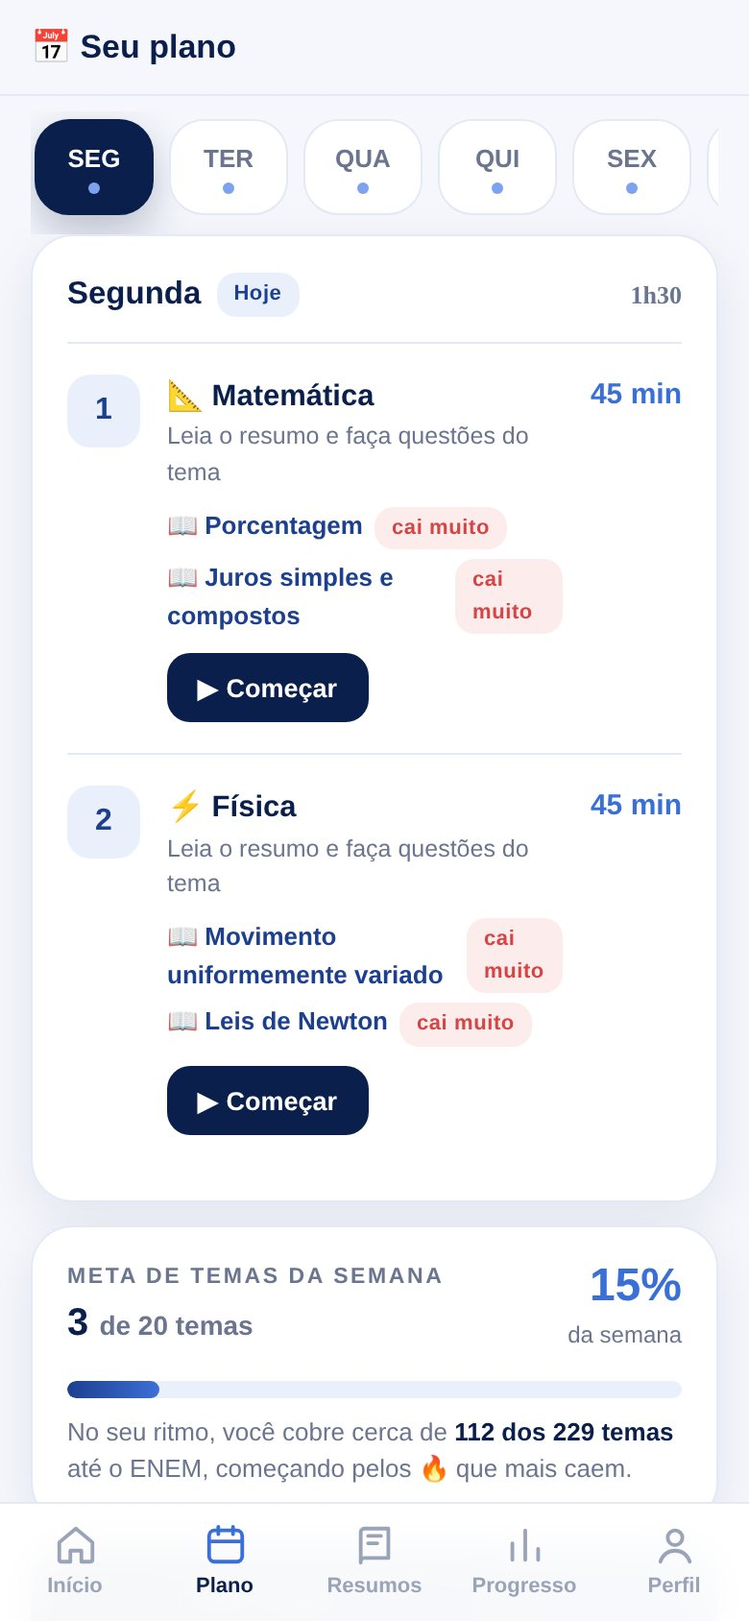
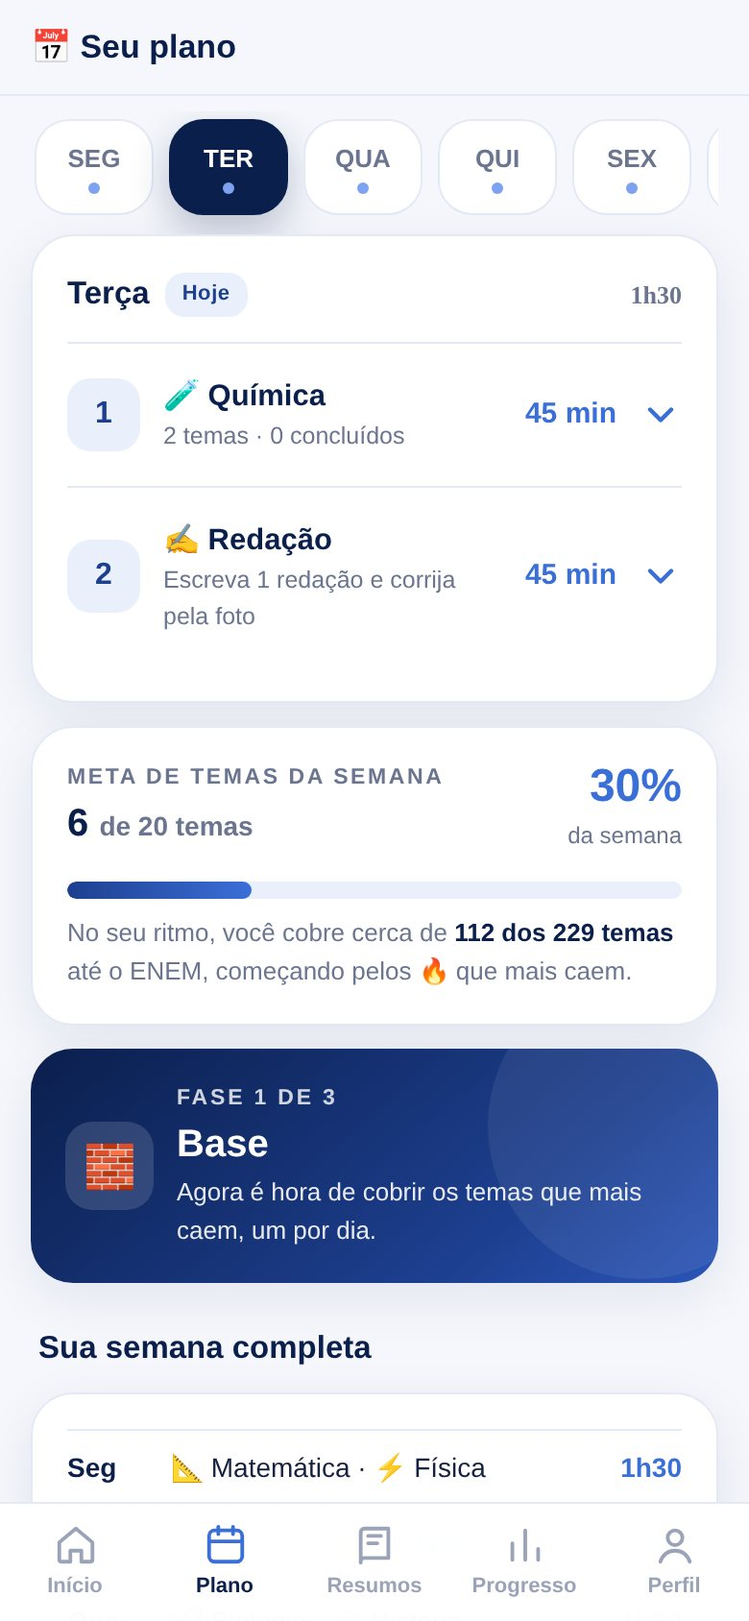
Plano: blocos que abrem com temas, concluir por tema, resumo embaixo e download do material; quiz 2: copy 'material', checklist e carrosseis mais suaves
Claude-Session: https://claude.ai/code/session_016oanMoqSLwB8wD9WTYZ31H

diff --git a/quiz2/index.html b/quiz2/index.html
@@ -27,8 +27,8 @@
 <style>
 .hero-sub{font-family:'Open Sans',sans-serif;font-size:17px;font-weight:700;color:var(--verde-claro);line-height:1.5;text-align:center;margin:18px 0 6px;}
 .prints{position:relative;width:62%;max-width:240px;margin:24px auto 0;aspect-ratio:390/844;border-radius:22px;overflow:hidden;background:#fff;border:6px solid #0b1f4d;box-shadow:0 14px 34px rgba(11,31,77,.35);}
-#prints-track{display:flex;height:100%;}
-#prints-track img{flex:1 1 0;min-width:0;height:100%;object-fit:cover;display:block;}
+#prints-track{display:flex;height:100%;will-change:transform;backface-visibility:hidden;transform:translate3d(0,0,0);}
+#prints-track img{flex:1 1 0;min-width:0;height:100%;object-fit:cover;display:block;backface-visibility:hidden;}
 .prints-dots{display:flex;gap:6px;justify-content:center;margin-top:14px;}
 .prints-dots i{width:7px;height:7px;border-radius:50%;background:#cfdaf0;}
 .prints-dots i.on{background:var(--verde);width:18px;border-radius:6px;}
@@ -43,7 +43,7 @@
 .pdf-h{font-family:'Open Sans',sans-serif;font-size:21px;font-weight:900;color:var(--verde-escuro);line-height:1.3;margin-bottom:8px;}
 .pdf-p{font-size:14.5px;color:#46506a;line-height:1.6;margin-bottom:16px;}
 .pdf-vitrine{position:relative;width:78%;max-width:330px;margin:0 auto;border-radius:10px;overflow:hidden;background:#fff;border:1px solid #dbe3f2;box-shadow:0 16px 36px rgba(11,31,77,.28);transform:rotate(-1.2deg);}
-.pdf-vitrine img{display:block;width:100%;height:auto;transition:opacity .26s ease;}
+.pdf-vitrine img{display:block;width:100%;height:auto;transition:opacity .35s ease;will-change:opacity;}
 .pdf-leg{position:absolute;left:0;right:0;bottom:0;background:linear-gradient(0deg,rgba(11,31,77,.92),rgba(11,31,77,0));padding:26px 12px 9px;display:flex;flex-direction:column;align-items:center;color:#fff;line-height:1.25;}
 .pdf-leg b{font-size:11px;letter-spacing:1px;text-transform:uppercase;color:#ffd84d;font-weight:800;}
 .pdf-leg span{font-size:13px;font-weight:700;}
@@ -173,22 +173,24 @@ function montaPlano(){
    A última "foto" é cópia da primeira: ao chegar nela, volta ao início sem transição (sem salto). */
 const PRINTS = ['/img/print-app-inicio.jpg','/img/print-app-plano.jpg','/img/print-app-meta.jpg','/img/print-app-resumos.jpg','/img/print-app-tema.jpg','/img/print-app-progresso.jpg'];
 let printsIdx = 0, printsTimer = null;
-function iniciarPrints(){ clearInterval(printsTimer); printsIdx = 0; printsTimer = setInterval(avancarPrints, 2200); }
+/* pré-carrega e decodifica tudo antes de começar, para a troca não travar */
+function precarregar(lista){ lista.forEach(src=>{ const im = new Image(); im.src = src; if(im.decode) im.decode().catch(()=>{}); }); }
+function iniciarPrints(){ clearInterval(printsTimer); printsIdx = 0; precarregar(PRINTS); printsTimer = setInterval(avancarPrints, 2600); }
 function pausarPrints(){ clearInterval(printsTimer); }
-function retomarPrints(){ clearInterval(printsTimer); printsTimer = setInterval(avancarPrints, 2200); }
+function retomarPrints(){ clearInterval(printsTimer); printsTimer = setInterval(avancarPrints, 2600); }
 function avancarPrints(){
   const track = document.getElementById('prints-track');
   if(!track || !document.body.contains(track)){ clearInterval(printsTimer); return; }
   const pct = 100 / (PRINTS.length + 1);
   printsIdx++;
-  track.style.transition = 'transform .55s cubic-bezier(.4,0,.2,1)';
-  track.style.transform = `translateX(-${printsIdx * pct}%)`;
+  track.style.transition = 'transform .7s cubic-bezier(.45,.05,.25,1)';
+  track.style.transform = `translate3d(-${printsIdx * pct}%,0,0)`;
   document.querySelectorAll('#prints-dots i').forEach((d,i)=>d.classList.toggle('on', i === (printsIdx % PRINTS.length)));
   if(printsIdx === PRINTS.length){
     setTimeout(()=>{
       if(!document.body.contains(track)) return;
-      track.style.transition = 'none'; track.style.transform = 'translateX(0)'; printsIdx = 0;
-    }, 600);
+      track.style.transition = 'none'; track.style.transform = 'translate3d(0,0,0)'; printsIdx = 0;
+    }, 760);
   }
 }
 
@@ -208,13 +210,18 @@ function mostrarPagina(){
   const img = document.getElementById('pdf-img');
   if(!img || !document.body.contains(img)){ clearInterval(pdfTimer); return; }
   const pg = proximaPagina();
-  img.style.opacity = 0;
-  setTimeout(()=>{
-    img.src = pg.s;
-    const leg = document.getElementById('pdf-leg');
-    if(leg) leg.innerHTML = '<b>'+S(pg.m)+'</b><span>'+S(pg.t)+'</span>';
-    img.style.opacity = 1;
-  }, 260);
+  const nova = new Image();
+  nova.onload = ()=>{
+    if(!document.body.contains(img)) return;
+    img.style.opacity = 0;
+    setTimeout(()=>{
+      img.src = pg.s;
+      const leg = document.getElementById('pdf-leg');
+      if(leg) leg.innerHTML = '<b>'+S(pg.m)+'</b><span>'+S(pg.t)+'</span>';
+      img.style.opacity = 1;
+    }, 360);
+  };
+  nova.src = pg.s;
 }
 function iniciarPdf(){
   clearInterval(pdfTimer); pdfFila = []; pdfUltimo = 0;
@@ -222,10 +229,10 @@ function iniciarPdf(){
   const dif = matsDificeis();
   pdfFila = PAGINAS_PDF.map((_,i)=>i).filter(i=>i!==0).sort(()=>Math.random()-0.5)
     .sort((a,b)=>(dif.includes(PAGINAS_PDF[b].m)?1:0)-(dif.includes(PAGINAS_PDF[a].m)?1:0));
-  pdfTimer = setInterval(mostrarPagina, 3200);
+  precarregar(PAGINAS_PDF.slice(0,6).map(x=>x.s)); pdfTimer = setInterval(mostrarPagina, 3600);
 }
 function pausarPdf(){ clearInterval(pdfTimer); }
-function retomarPdf(){ clearInterval(pdfTimer); pdfTimer = setInterval(mostrarPagina, 3200); }
+function retomarPdf(){ clearInterval(pdfTimer); pdfTimer = setInterval(mostrarPagina, 3600); }
 
 const RENDER = {
   intro(q){
@@ -234,7 +241,7 @@ const RENDER = {
       <span class="intro-badge">Teste grátis · 2 minutos</span>
       <h1 class="intro-h1">Você está <span>preparado</span> para o ENEM?</h1>
       <p class="intro-sub">${S(prazoTxt())}. Faça o teste e descubra o seu <strong>Índice de Preparo</strong>. Ao final você recebe um plano para o último mês.</p>
-      <img src="/img/mockup-quiz2.png" alt="Resumos em PDF e o app Plano ENEM" style="width:100%;max-width:520px;display:block;margin:22px auto 0;border-radius:16px;" onerror="this.remove()">
+      <img src="/img/mockup-quiz2.png" alt="Material e app Plano ENEM" style="width:100%;max-width:520px;display:block;margin:22px auto 0;border-radius:16px;" onerror="this.remove()">
       <h2 class="intro-h1" style="font-size:24px;margin:30px 0 4px;">Qual é a sua situação?</h2>
       <p style="font-size:11px;letter-spacing:2px;text-transform:uppercase;font-weight:700;color:#9aa2b4;margin:8px 0 18px;">Toque para escolher</p>
       ${introCards(q)}
@@ -287,7 +294,7 @@ const RENDER = {
       <span class="tag red" style="margin-top:6px;">${S(prazoTxt())}</span>
       <h2 class="q-title" style="margin:6px 0 10px;">Você não precisa estudar tudo. Precisa saber o que estudar.</h2>
       <p class="sec-s" style="margin-bottom:6px;">${abre}</p>
-      <p class="hero-sub">Por isso, o seu plano de estudos, os resumos de cada matéria, o seu desempenho e os lembretes ficam em um app só.</p>
+      <p class="hero-sub">Por isso, o seu plano de estudos, o material de cada matéria, o seu desempenho e os lembretes ficam em um app só.</p>
 
       <div id="prints-wrap" class="prints"
            onmousedown="pausarPrints()" onmouseup="retomarPrints()" onmouseleave="retomarPrints()"
@@ -310,23 +317,26 @@ const RENDER = {
 
       <div class="pdf-bloco">
         <span class="tag" style="margin-bottom:10px;">E tem mais: o material completo</span>
-        <h3 class="pdf-h">Tudo o que você precisa estudar, em 9 resumos em PDF</h3>
-        <p class="pdf-p">${listaMats ? `Você marcou <b>${S(listaMats)}</b> como dificuldade. Os resumos dessas matérias estão aqui, com cada tema explicado do zero.` : 'Cada matéria tem o seu resumo, com cada tema explicado do zero.'} É assim que você vai receber:</p>
+        <h3 class="pdf-h">Tudo o que você precisa estudar, em 9 materiais</h3>
+        <p class="pdf-p">${listaMats ? `Você marcou <b>${S(listaMats)}</b> como dificuldade. O material dessas matérias está aqui, com cada tema explicado do zero.` : 'Cada matéria tem o seu material, com cada tema explicado do zero.'} É assim que você vai receber:</p>
 
         <div class="pdf-vitrine" id="pdf-vitrine"
              onmousedown="pausarPdf()" onmouseup="retomarPdf()" onmouseleave="retomarPdf()"
              ontouchstart="pausarPdf()" ontouchend="retomarPdf()" ontouchcancel="retomarPdf()">
-          <img id="pdf-img" src="${PAGINAS_PDF[0].s}" alt="Página de um dos resumos em PDF">
+          <img id="pdf-img" src="${PAGINAS_PDF[0].s}" alt="Página de um dos materiais">
           <div class="pdf-leg" id="pdf-leg"><b>${S(PAGINAS_PDF[0].m)}</b><span>${S(PAGINAS_PDF[0].t)}</span></div>
         </div>
         <p class="prints-leg">Páginas reais do material, de matérias diferentes</p>
 
-        <div class="pdf-explica">
-          <div class="pdf-item"><b>📄 O que é</b><span>Um resumo em PDF para cada matéria, com os <b>25 temas que mais caem</b> no ENEM. Cada tema ocupa uma página, em linguagem simples, com os pontos principais e a dica "Como cai no ENEM".</span></div>
-          <div class="pdf-item"><b>🎯 Para quem se sente perdido(a)</b><span>É <b>todo o conteúdo necessário</b> reunido em um só lugar. Você para de procurar o que estudar em vídeos e apostilas soltas e segue o material, tema por tema, na ordem do seu plano.</span></div>
-          <div class="pdf-item"><b>📚 Para quem já estudou</b><span>Serve também como <b>resumo de tudo o que você já viu</b>: leia rápido, marque o que ainda está fraco e revise antes da prova.</span></div>
+        <div class="com-lista" style="margin-top:20px;text-align:left;">
+          <div class="com-tt">Com o material você tem:</div>
+          <div class="com-item"><span class="ck">✓</span>O material de <b>todas as matérias</b> do ENEM, em 9 arquivos para baixar</div>
+          <div class="com-item"><span class="ck">✓</span>Não é um resumo solto: é o <b>conteúdo que dá para estudar em menos de 30 dias</b> para chegar mais preparado(a)</div>
+          <div class="com-item"><span class="ck">✓</span>Os <b>25 temas que mais caem</b> em cada matéria, um por página, em linguagem simples</div>
+          <div class="com-item"><span class="ck">✓</span>Os pontos principais e a dica "Como cai no ENEM" em cada tema</div>
+          <div class="com-item"><span class="ck">✓</span>Tudo reunido em um só lugar, na ordem do seu plano, sem procurar vídeo e apostila solta</div>
         </div>
-        <p class="pdf-fecho">Quem estuda sem direção chega na prova com a sensação de que faltou alguma coisa. Com o conteúdo completo e um plano para cada dia, você chega sabendo que viu o que mais cai. O resultado depende de você, mas o caminho deixa de ser um mistério.</p>
+        <p class="pdf-fecho">Quem estuda sem direção chega na prova com a sensação de que faltou alguma coisa. Com o conteúdo completo e um plano para cada dia, você chega mais preparado(a), sabendo que viu o que mais cai. O resultado depende de você, mas o caminho deixa de ser um mistério.</p>
       </div>
 
       <button class="btn" style="margin-top:24px;" onclick="go(1)">Ver o meu plano →</button>
@@ -398,12 +408,12 @@ const RENDER = {
       <div class="blk" style="text-align:center;">
         <span class="tag red">${S(prazoTxt())}</span>
         <h1 class="intro-h1" style="font-size:27px;">${n?n+', c':'C'}omece hoje o plano do seu último mês</h1>
-        <p class="intro-sub" style="font-size:15px;">Seu Índice de Preparo hoje é <strong style="color:${nivel(P.idx).cor};">${P.idx}/100</strong>. Os resumos trazem o que mais cai, e o app diz o que estudar em cada dia até a prova.</p>
+        <p class="intro-sub" style="font-size:15px;">Seu Índice de Preparo hoje é <strong style="color:${nivel(P.idx).cor};">${P.idx}/100</strong>. O material traz o que mais cai, e o app diz o que estudar em cada dia até a prova.</p>
       </div>
       <div class="blk">
         <h3 class="sec-h" style="margin-top:0;">O que você recebe</h3>
         <ul class="lista">
-          <li><span><b>9 resumos completos em PDF:</b> Matemática, Física, Química, Biologia, História, Geografia, Filosofia, Sociologia e Linguagens</span></li>
+          <li><span><b>9 materiais completos:</b> Matemática, Física, Química, Biologia, História, Geografia, Filosofia, Sociologia e Linguagens</span></li>
           <li><span><b>25 temas por matéria</b> (225 no total), com os que mais caem marcados com 🔥</span></li>
           <li><span><b>"Como cai no ENEM"</b> no fim de cada tema</span></li>
           <li><span>Feito para ler no celular ou imprimir, com espaço para anotações</span></li>
@@ -418,7 +428,7 @@ const RENDER = {
       </div>
       <div class="blk">
         <div class="price-box">
-          <div class="label">9 resumos em PDF + app</div>
+          <div class="label">9 materiais + app</div>
           <div class="val">${S(QUIZ.PRECO_POR)}</div>
           <div style="font-size:13px;opacity:.9;">pagamento único, sem mensalidade</div>
           <span class="off">Receba agora no seu e-mail</span>
@@ -429,7 +439,7 @@ const RENDER = {
       <div class="blk garantia">
         <img src="/img/garantia-7-dias.png" alt="Garantia de 7 dias" onerror="this.outerHTML='<div class=&quot;sel&quot;>7 DIAS<br>DE GARANTIA</div>'">
         <div><h3 style="font-family:'Open Sans';font-size:18px;font-weight:900;color:var(--verde-escuro);margin-bottom:6px;">Garantia de 7 dias</h3>
-        <p style="font-size:14px;color:#525d78;line-height:1.6;">Use os resumos e o app por 7 dias. Se não gostar, peça o reembolso dentro do prazo e devolvemos o valor pago.</p></div>
+        <p style="font-size:14px;color:#525d78;line-height:1.6;">Use o material e o app por 7 dias. Se não gostar, peça o reembolso dentro do prazo e devolvemos o valor pago.</p></div>
       </div>
       <div class="blk faq">
         <h3 class="sec-h" style="margin-top:0;">Dúvidas frequentes</h3>
@@ -437,7 +447,7 @@ const RENDER = {
         <details><summary>Não tenho tempo para estudar muito. Serve para mim?</summary><p>Serve. O plano parte do tempo que você tem hoje, a partir de 30 minutos por dia, e cada dia já mostra o que estudar.</p></details>
         <details><summary>Já tentei cronograma e larguei. O que muda?</summary><p>No app o plano já vem pronto e você recebe lembretes na hora de estudar. Você não precisa montar nem lembrar de nada sozinho.</p></details>
         <details><summary>Tem exercícios e correção de redação?</summary><p>No checkout você pode incluir os Exercícios e simulados no estilo do ENEM e a Correção da redação pela foto.</p></details>
-        <details><summary>Como recebo os resumos?</summary><p>Logo após a compra, os 9 PDFs chegam no seu e-mail, junto com o link do app. Você pode ler no celular, no computador ou imprimir.</p></details>
+        <details><summary>Como recebo o material?</summary><p>Logo após a compra, os 9 materiais chegam no seu e-mail, junto com o link do app. Você pode ler no celular, no computador ou imprimir.</p></details>
         <details><summary>Preciso estudar os 225 temas?</summary><p>Não precisa ler tudo de uma vez. O app distribui alguns temas por semana até o ENEM, começando pelos que mais caem, de acordo com o tempo que você tem.</p></details>
         <details><summary>Preciso instalar algum aplicativo?</summary><p>Não. O app abre no navegador do celular e você pode adicioná-lo à tela inicial.</p></details>
         <details><summary>E se eu não gostar?</summary><p>Você tem 7 dias de garantia. Se não gostar, peça o reembolso dentro do prazo.</p></details>

diff --git a/materias/index.html b/materias/index.html
@@ -398,6 +398,47 @@ function telaInicio(){
 }
 function checkin(id){ const c=checkins(); c[hojeISO()]=id; lsSet('mat_checkin',c); telaInicio(); }
 
+/* ===================== PLANO: blocos que abrem ===================== */
+const blocosAbertos = new Set();
+function alternarBloco(k){
+  if(blocosAbertos.has(k)) blocosAbertos.delete(k); else blocosAbertos.add(k);
+  const el=document.querySelector('.bloco[data-k="'+k+'"]'); if(el) el.classList.toggle('aberto', blocosAbertos.has(k));
+}
+function acharTema(id){ let r=null; M.forEach(m=>m.temas.forEach(t=>{ if(t.id===id) r=t; })); return r; }
+/* os temas de cada bloco ficam guardados no dia, para o tema concluído não sumir da tela */
+function temasDoBloco(iso,i,b,gravar){
+  if(b.m==='revisao') return [];
+  const A=ls('mat_atrib',{}), d=A[iso]||{};
+  if(d[i]) return d[i].map(acharTema).filter(Boolean);
+  const m=mat(b.m); if(!m) return [];
+  const usados=[].concat(...Object.values(d)), L=lidos();
+  const lista=m.temas.filter(t=>!L.includes(t.id)&&!usados.includes(t.id)).sort((x,y)=>(x.prio==='alta'?0:1)-(y.prio==='alta'?0:1)).slice(0,temasPorBloco(b));
+  if(gravar && lista.length){
+    d[i]=lista.map(t=>t.id); A[iso]=d;
+    Object.keys(A).sort().slice(0,-21).forEach(k=>delete A[k]);
+    lsSet('mat_atrib',A);
+  }
+  return lista;
+}
+function concluirTemaPlano(id){
+  const L=lidos(), E=lidosEm(), y=scrollY, t=acharTema(id);
+  if(L.includes(id)){ lsSet('mat_lidos',L.filter(x=>x!==id)); delete E[id]; lsSet('mat_lidos_em',E); }
+  else { L.push(id); lsSet('mat_lidos',L); E[id]=hojeISO(); lsSet('mat_lidos_em',E); marcarDiaAtivo(); toast('+25 XP · '+(t?t.titulo:'tema')+' concluído!'); }
+  telaPlano(); scrollTo(0,y);
+}
+const ARQ_MATERIAL={mat:'Matematica',fis:'Fisica',qui:'Quimica',bio:'Biologia',his:'Historia',geo:'Geografia',fil:'Filosofia',soc:'Sociologia',lin:'Linguagens'};
+function materialArq(mid){ return ARQ_MATERIAL[mid] ? 'Resumo-'+ARQ_MATERIAL[mid]+'.pdf' : ''; }
+async function baixarMaterial(mid){
+  const arq=materialArq(mid); if(!arq) return;
+  const fixo=(C.PDF_LINKS||{})[mid];
+  if(fixo){ window.open(fixo,'_blank','noopener'); return; }
+  try{
+    const url = window.Conta && Conta.ativo ? await Conta.urlMaterial(arq) : null;
+    if(url){ window.open(url,'_blank','noopener'); return; }
+  }catch(e){}
+  toast('Material ainda não disponível. Ele também chega no seu e-mail de compra.');
+}
+
 /* ===================== PLANO ===================== */
 let diaSel = null;
 function telaPlano(){
@@ -409,13 +450,24 @@ function telaPlano(){
     <div class="dias-tabs">${ORDEM_SEMANA.map(x=>{ const d2=new Date(); d2.setDate(d2.getDate()-((d2.getDay()+6)%7)+((x+6)%7)); const i2=hojeISO(d2); const b2=p.plano[x]||[]; const ok=b2.length&&b2.every(b=>blocoFeito(i2,b)); return `<button class="${x===diaSel?'on':''} ${b2.length?'tem':''} ${ok?'ok':''}" onclick="diaSel=${x};telaPlano()">${DIAS[x].toUpperCase()}<span class="p"></span></button>`; }).join('')}</div>
     <div class="card">
       <div class="card-tt">${DIAS_LONGO[diaSel]}${diaSel===hoje?' <span class="tag azul">Hoje</span>':''}<span style="margin-left:auto;font-family:Inter;font-size:13px;color:var(--cinza);font-weight:600;">${bl.length?fmtMin(bl.reduce((a,b)=>a+b.min,0)):'Descanso'}</span></div>
-      ${bl.length?bl.map((b,i)=>{ const feito=blocoFeito(iso,b); const temas=b.m==='revisao'?[]:proximosTemas(b.m,temasPorBloco(b)); return `<div class="bloco ${feito?'feito':''}">
-        <div class="num">${feito?'✓':i+1}</div>
-        <div class="info"><b>${iconeBloco(b.m)} ${S(nomeBloco(b.m))}</b><div class="s">${b.m==='revisao'?'Releia os temas da semana e faça questões':b.m==='red'?'Escreva 1 redação e corrija pela foto':'Leia o resumo e faça questões do tema'}</div>
-          ${temas.length?`<div class="temas">${temas.map(t=>`<a href="#tema/${t.id}">📖 ${S(t.titulo)} ${t.prio==='alta'?'<span class="tag alta">cai muito</span>':''}</a>`).join('')}</div>`:'<div style="height:8px"></div>'}
-          ${diaSel===hoje?(feito?'<span class="tag verde">Concluído</span>':`<button class="btn sm" onclick="irPara('timer/${b.m}/${b.min}')">▶ Começar</button>`):''}
-          ${b.m==='red'&&diaSel===hoje?' <button class="btn sm sec" onclick="location.href=\'/redacao#corrigir\'">📸 Corrigir</button>':''}
-        </div><div class="tempo">${fmtMin(b.min)}</div></div>`; }).join('')
+      ${bl.length?bl.map((b,i)=>{ const feito=blocoFeito(iso,b); const temas=temasDoBloco(iso,i,b,diaSel===hoje); const key=iso+'|'+i; const aberto=blocosAbertos.has(key); const L=lidos(); const feitos=temas.filter(t=>L.includes(t.id)).length; return `<div class="bloco ${feito?'feito':''} ${aberto?'aberto':''}" data-k="${key}">
+        <div class="bloco-cab" onclick="alternarBloco('${key}')">
+          <div class="num">${feito?'✓':i+1}</div>
+          <div class="info"><b>${iconeBloco(b.m)} ${S(nomeBloco(b.m))}</b><div class="s">${b.m==='revisao'?'Releia os temas da semana e faça questões':b.m==='red'?'Escreva 1 redação e corrija pela foto':temas.length?`${temas.length} ${temas.length>1?'temas':'tema'} · ${feitos} concluído${feitos===1?'':'s'}`:'Toque para ver o conteúdo'}</div></div>
+          <div class="tempo">${fmtMin(b.min)}</div>
+          <svg class="chev" viewBox="0 0 24 24" width="22" height="22" fill="none" stroke="currentColor" stroke-width="2.4" stroke-linecap="round" stroke-linejoin="round"><path d="M6 9l6 6 6-6"/></svg>
+        </div>
+        <div class="bloco-det">
+          ${temas.map(t=>{ const ok=L.includes(t.id); return `<div class="tema-plano ${ok?'ok':''}">
+            <div class="tp-topo"><div class="tp-tt">${t.prio==='alta'?'🔥 ':''}${S(t.titulo)}</div>
+              <button class="tp-check ${ok?'on':''}" onclick="concluirTemaPlano('${t.id}')">${ok?'✓ Concluído':'Marcar concluído'}</button></div>
+            <div class="tp-resumo">${t.secoes.map(sc=>`<div class="sec-app"><div class="sec-rot">${S(sc[0])}</div>${sc[1]?`<p>${F(sc[1])}</p>`:''}${sc[2]&&sc[2].length?`<ul>${sc[2].map(i=>`<li>${F(i)}</li>`).join('')}</ul>`:''}${sc[3]?`<p class="sec-fecho">${F(sc[3])}</p>`:''}</div>`).join('')}
+              <div class="dica-enem"><b>💡 Como cai no ENEM:</b> ${S(t.dica)}</div></div>
+          </div>`; }).join('')}
+          ${materialArq(b.m)?`<button class="btn sec sm" onclick="baixarMaterial('${b.m}')">⬇ Baixar o material de ${S(nomeBloco(b.m))}</button>`:''}
+          <div class="bloco-acoes">${diaSel===hoje?(feito?'<span class="tag verde">Concluído</span>':`<button class="btn sm" onclick="irPara('timer/${b.m}/${b.min}')">▶ Começar</button>`):''}
+          ${b.m==='red'&&diaSel===hoje?' <button class="btn sm sec" onclick="location.href=\'/redacao#corrigir\'">📸 Corrigir</button>':''}</div>
+        </div></div>`; }).join('')
       :'<p class="nota" style="padding:6px 0;">Dia livre. Descansar também faz parte do plano: o cérebro fixa o que você estudou.</p>'}
     </div>
     ${(()=>{ const ms=metaSemana(); return `<div class="card"><div class="meta-topo"><div><div class="k">Meta de temas da semana</div><div class="v">${ms.feitos} <small>de ${ms.meta} temas</small></div></div><div class="pct"><b>${Math.min(100,Math.round(ms.feitos/ms.meta*100))}%</b><span>da semana</span></div></div><div class="barra"><i style="width:${Math.min(100,ms.feitos/ms.meta*100)}%"></i></div><div class="nota">No seu ritmo, você cobre cerca de <b>${ms.cobertos} dos ${totalTemas} temas</b> até o ENEM, começando pelos 🔥 que mais caem.</div></div>`; })()}
@@ -560,12 +612,11 @@ function telaPerfil(){
   </div>`;
 }
 function telaMateriais(){
-  const links = C.PDF_LINKS || {};
-  const lista = ['Matemática','Física','Química','Biologia','História','Geografia','Filosofia','Sociologia','Linguagens'];
+  const lista = M.filter(m=>materialArq(m.id));
   app.innerHTML = `${barraTopo('📄 Meus materiais',true)}
   <div class="tela fade">
-    <div class="card hero"><div class="k">Resumos completos em PDF</div><div class="grande" style="font-size:21px;">Um material para cada matéria</div><p>Os PDFs também chegam no seu e-mail de compra. Use junto com o plano: o app diz o que estudar, o PDF aprofunda.</p></div>
-    ${lista.map(n=>`<div class="tema-item" style="cursor:default;"><span class="ck" style="background:var(--suave);border:none;">📄</span><div style="flex:1;"><b>Resumo de ${S(n)}</b><span class="nota">PDF completo</span></div>${links[n]?`<a class="btn sm" href="${S(links[n])}" target="_blank" rel="noopener">Abrir</a>`:'<span class="tag azul">no e-mail</span>'}</div>`).join('')}
+    <div class="card hero"><div class="k">Material completo</div><div class="grande" style="font-size:21px;">Um material para cada matéria</div><p>Use junto com o plano: o app diz o que estudar, o material aprofunda. Ele também chega no seu e-mail de compra.</p></div>
+    ${lista.map(m=>`<div class="tema-item" style="cursor:default;"><span class="ck" style="background:var(--suave);border:none;">${m.icone}</span><div style="flex:1;"><b>Material de ${S(m.nome)}</b><span class="nota">PDF completo</span></div><button class="btn sm" onclick="baixarMaterial('${m.id}')">Baixar</button></div>`).join('')}
   </div>`;
 }
 

diff --git a/materias/app.css b/materias/app.css
@@ -295,3 +295,20 @@ details.acc .ct{padding:0 16px 14px;font-size:14px;line-height:1.6;}
 .sec-app ul{padding-left:20px;margin:4px 0 6px;}
 .sec-app li{font-size:15px;line-height:1.6;margin-bottom:5px;}
 .sec-app .sec-fecho{font-weight:700;color:var(--navy);}
+
+/* ---- Plano: blocos que abrem ---- */
+.bloco{flex-direction:column;gap:0;}
+.bloco-cab{display:flex;align-items:center;gap:12px;cursor:pointer;-webkit-tap-highlight-color:transparent;}
+.bloco-cab .tempo{margin-left:auto;}
+.bloco .chev{flex:none;color:var(--azul2);transition:transform .25s ease;}
+.bloco.aberto .chev{transform:rotate(180deg);}
+.bloco-det{display:none;margin-top:12px;flex-direction:column;gap:12px;}
+.bloco.aberto .bloco-det{display:flex;}
+.tema-plano{border:1px solid var(--borda);border-radius:14px;overflow:hidden;background:#fff;}
+.tema-plano.ok{border-color:var(--verde);}
+.tp-topo{display:flex;align-items:center;gap:10px;justify-content:space-between;padding:11px 12px;background:var(--suave);}
+.tp-tt{font-weight:700;font-size:14px;color:var(--navy);line-height:1.3;}
+.tp-check{flex:none;border:1.5px solid var(--azul2);background:#fff;color:var(--azul2);font-weight:700;font-size:12px;padding:7px 10px;border-radius:999px;cursor:pointer;font-family:inherit;}
+.tp-check.on{background:var(--verde);border-color:var(--verde);color:#fff;}
+.tp-resumo{padding:4px 14px 14px;}
+.bloco-acoes{display:flex;gap:8px;flex-wrap:wrap;}

diff --git a/shared/conta.js b/shared/conta.js
@@ -14,7 +14,7 @@
   const SINCRONIZAR = [
     'red_favs','red_correcoes','red_montar','red_ultimo_tema',
     'mat_perfil','mat_lidos','mat_tempo','mat_resp','mat_dias_leitura',
-    'mat_lidos_em','mat_revisoes','mat_resp_dia','mat_checkin','mat_notif_lidas','mat_madrugou','mat_coruja',
+    'mat_lidos_em','mat_atrib','mat_revisoes','mat_resp_dia','mat_checkin','mat_notif_lidas','mat_madrugou','mat_coruja',
     'enem_quiz1','enem_quiz2'
   ];
   const PENDENTE = 'enem_codigo_pendente';
@@ -166,6 +166,12 @@
       if(error) throw new Error(traduzErro(error));
     },
 
+    /* link temporário (5 min) de um PDF do bucket privado 'materiais'; só quem tem o plano consegue */
+    async urlMaterial(arquivo){
+      const { data, error } = await sb.storage.from('materiais').createSignedUrl(arquivo, 300);
+      if(error) throw error;
+      return data && data.signedUrl;
+    },
     resgatar,
 
     /* chamado a cada mudança no progresso: salva na conta 1,5 s depois */

diff --git a/CLAUDE.md b/CLAUDE.md
@@ -30,8 +30,9 @@ em `testegratuitoenem.vercel.app` a partir deste repositório. Cores: branco e v
 - Login: conta única (e-mail e senha) para os dois apps. Toda chave nova de progresso no localStorage
   precisa entrar na lista `SINCRONIZAR` de `shared/conta.js`, senão não vai para a conta.
 - O app 2 lê as respostas do quiz 2 (`localStorage.enem_quiz2`) para pré-preencher o plano: os nomes
-  das matérias no quiz precisam bater com `shared/resumos.js`.
+  das matérias no quiz precisam bater com `shared/materias.js`.
 - Playbook de copy e funil: skill `vturb-ouro` do repositório `Quiz-Emagecimento`.
 
 - **Nunca** ler e gravar o mesmo arquivo na mesma linha em script (`open(dst,'w')` antes de ler apaga o arquivo): já apagou o quiz 2 uma vez.
-- Os PDFs não vão para o git (repositório público).
+- Os PDFs não vão para o git (repositório público). Dentro do app o download vem do bucket privado `materiais` do Supabase (`Conta.urlMaterial`, ver fim de `supabase/schema.sql`).
+- Na copy do quiz 2 e do app, o PDF se chama "material" (não "resumo"): é o conteúdo estudável em menos de 30 dias, sem prometer resultado.
